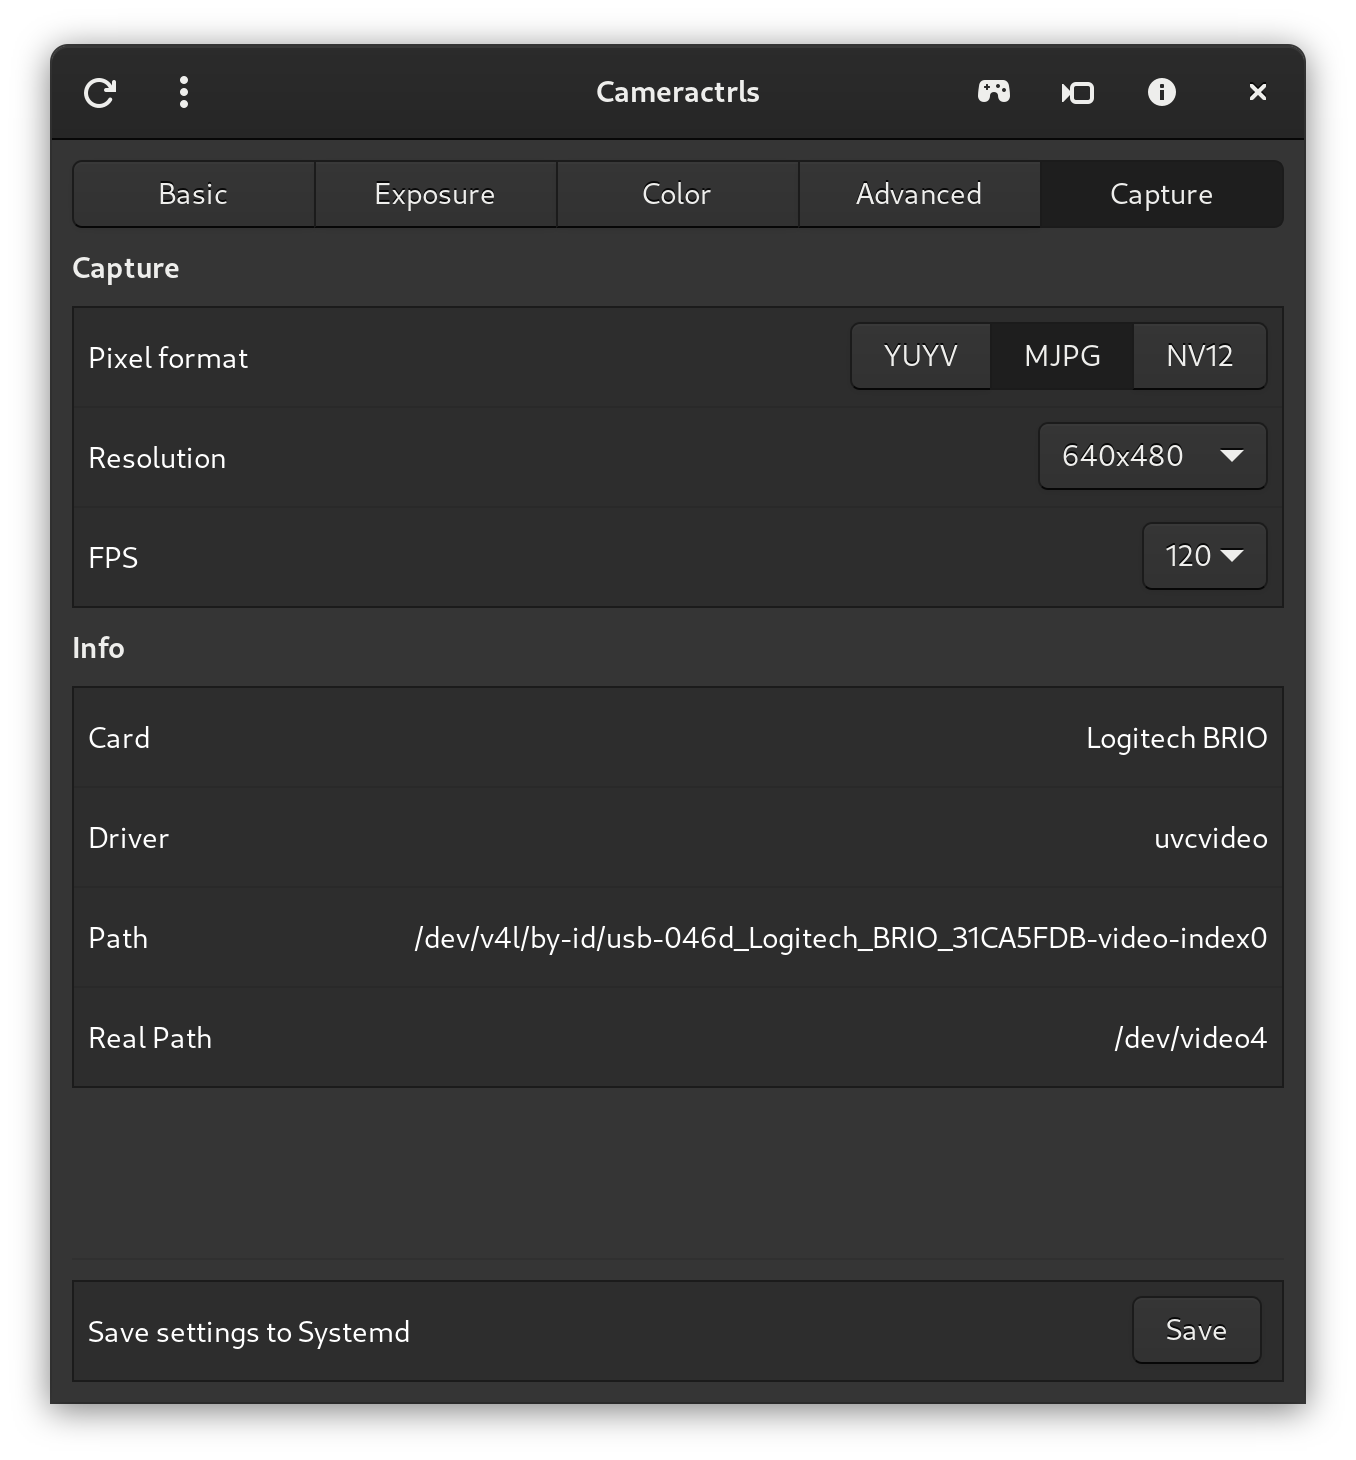
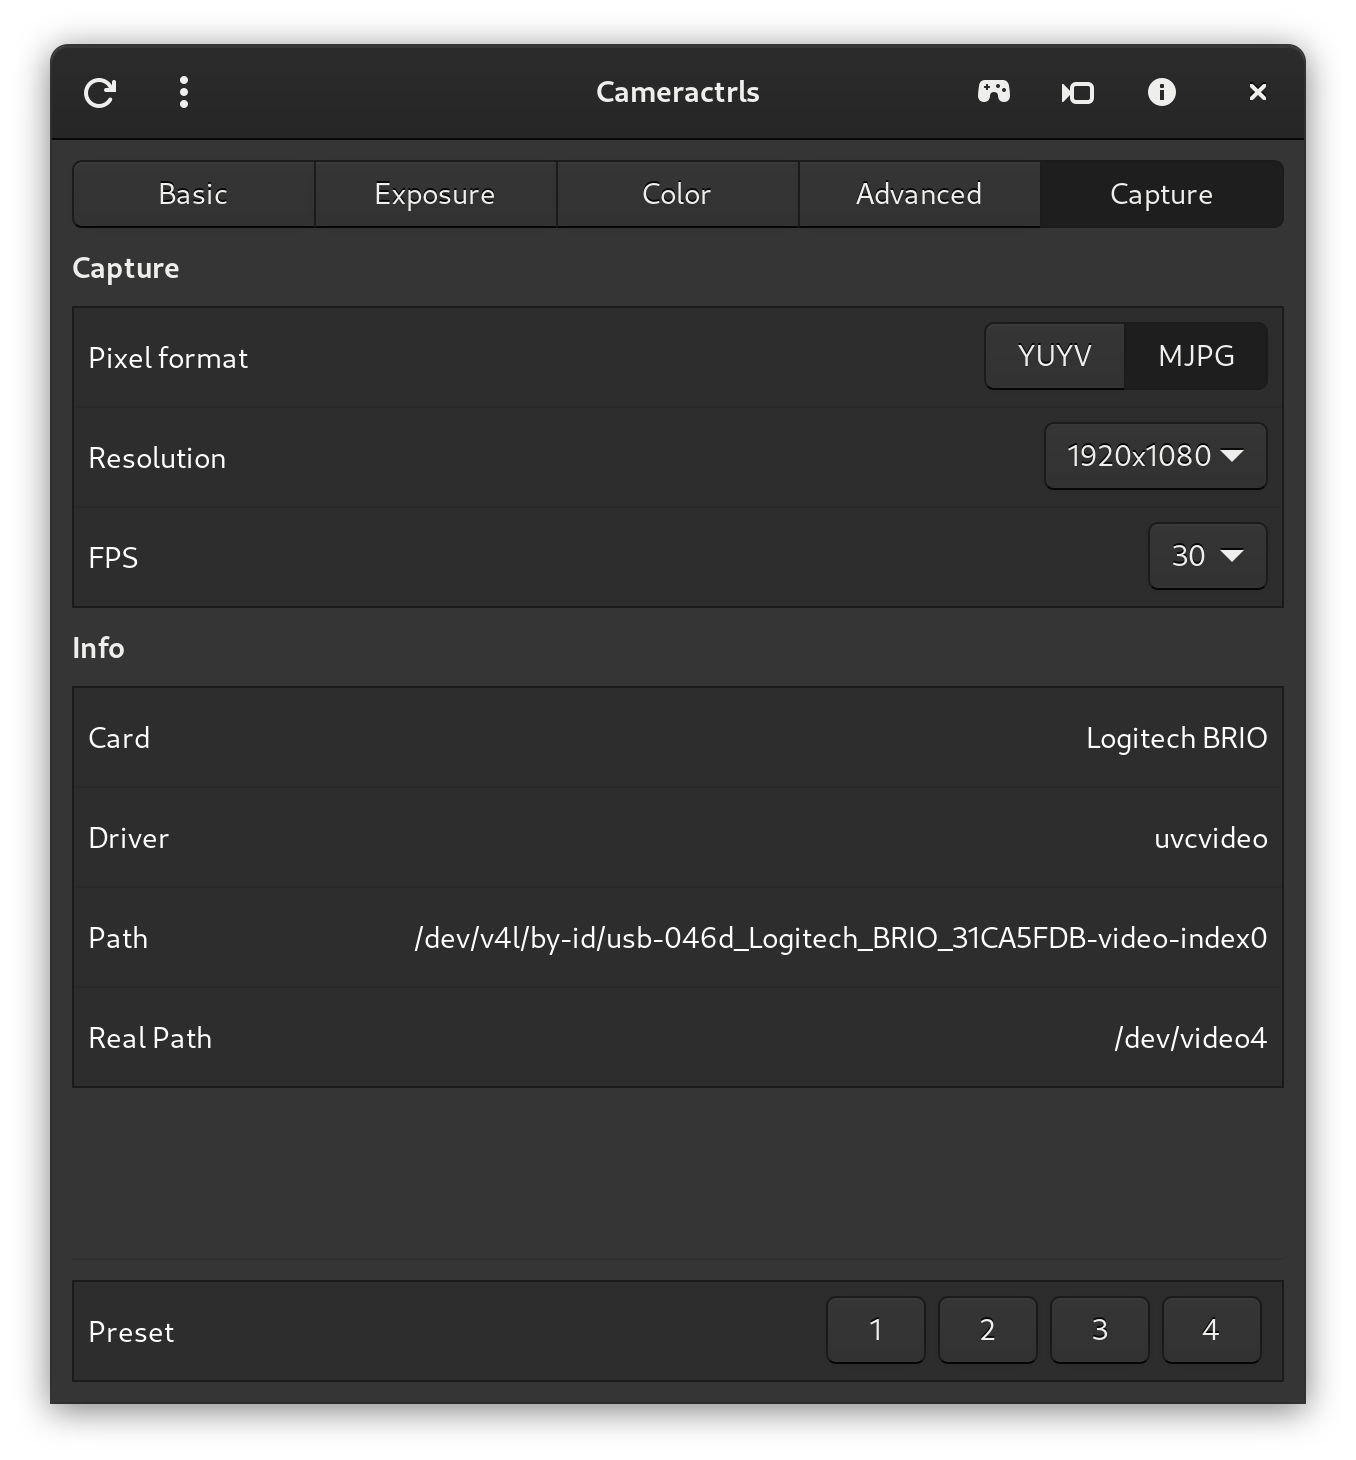
v0.6.0

diff --git a/cameractrls.py b/cameractrls.py
@@ -5,7 +5,7 @@ from fcntl import ioctl
 from threading import Thread
 
 ghurl = 'https://github.com/soyersoyer/cameractrls'
-version = 'v0.5.15'
+version = 'v0.6.0'
 
 
 v4ldirs = {

diff --git a/CHANGELOG.md b/CHANGELOG.md
@@ -1,5 +1,25 @@
 # Changelog
 
+## [0.6.0] - 2024-04-01
+
+### Added
+ - Control Presets
+ - Cameractrlsd, a deamon which restores the controls at device connection
+ - Starter for Cameractrlsd with SystemD and DesktopPortal
+ - MX Brio FoV support (thx wanderboessenkool)
+ - PTZ control keys in cameraview
+
+### Changed
+ - use GPLv3 License
+
+### Fixed
+ - Various camera opening fixes
+ - Better relative MIDI control support
+ - Added Zoom Continuous to zeroers to work
+
+### Removed
+ - removed cameractrlstk
+
 ## [0.5.15] - 2024-02-17
 
 ### Fixed
